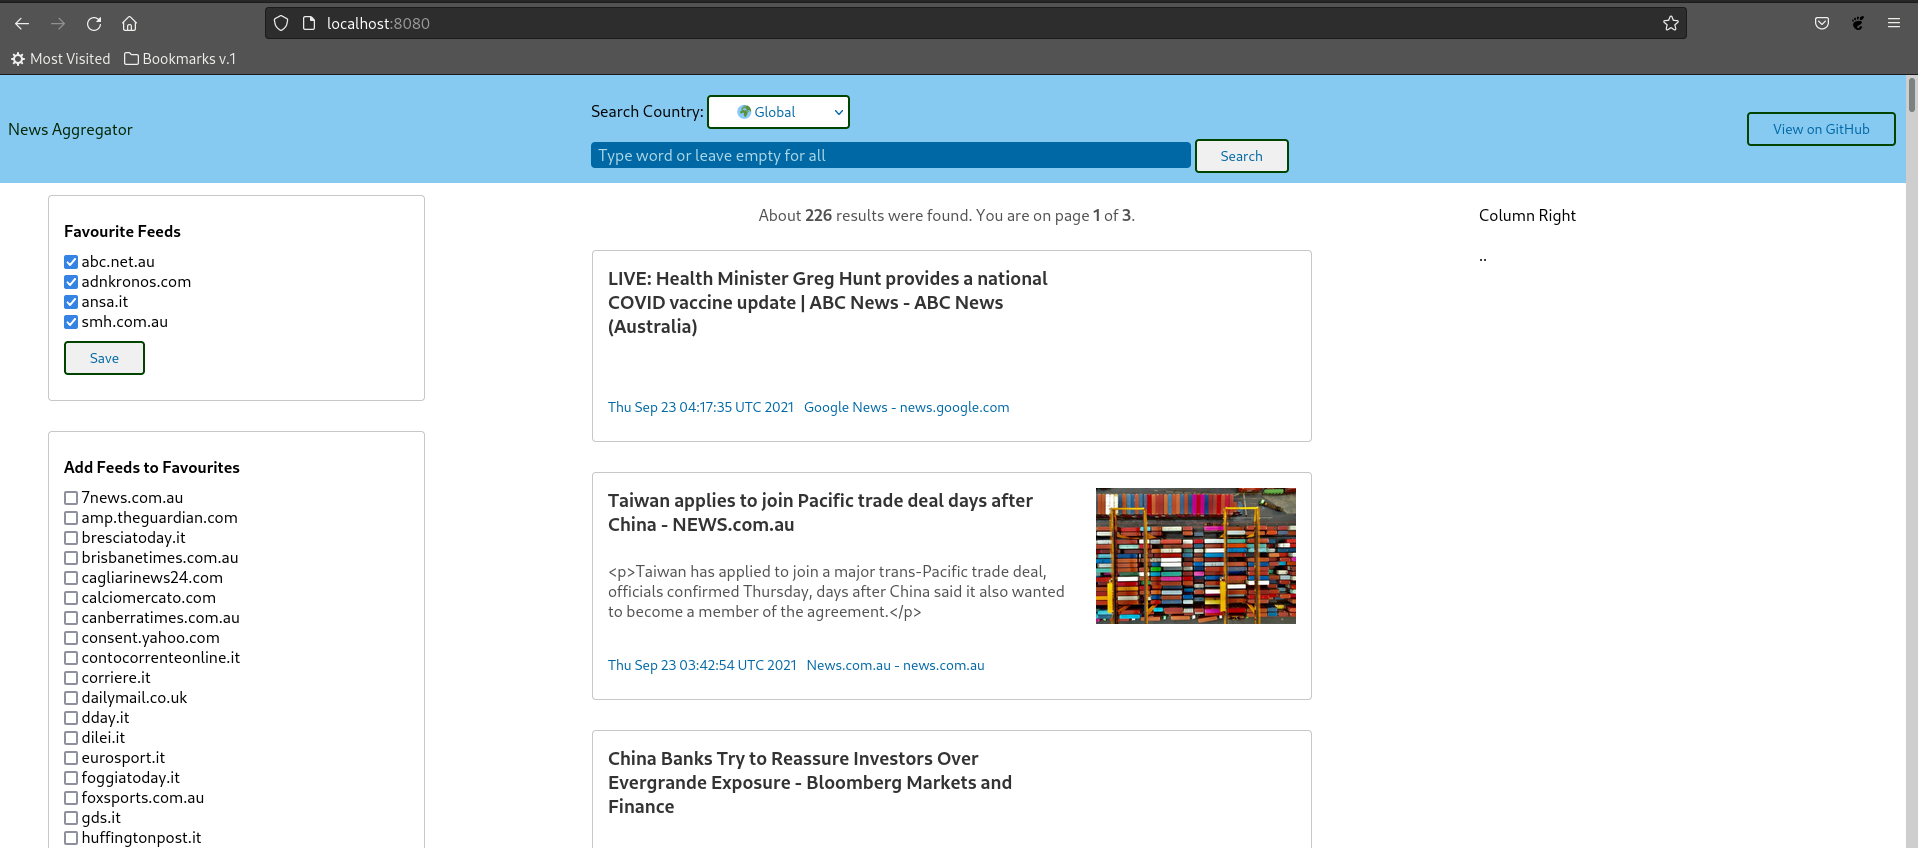
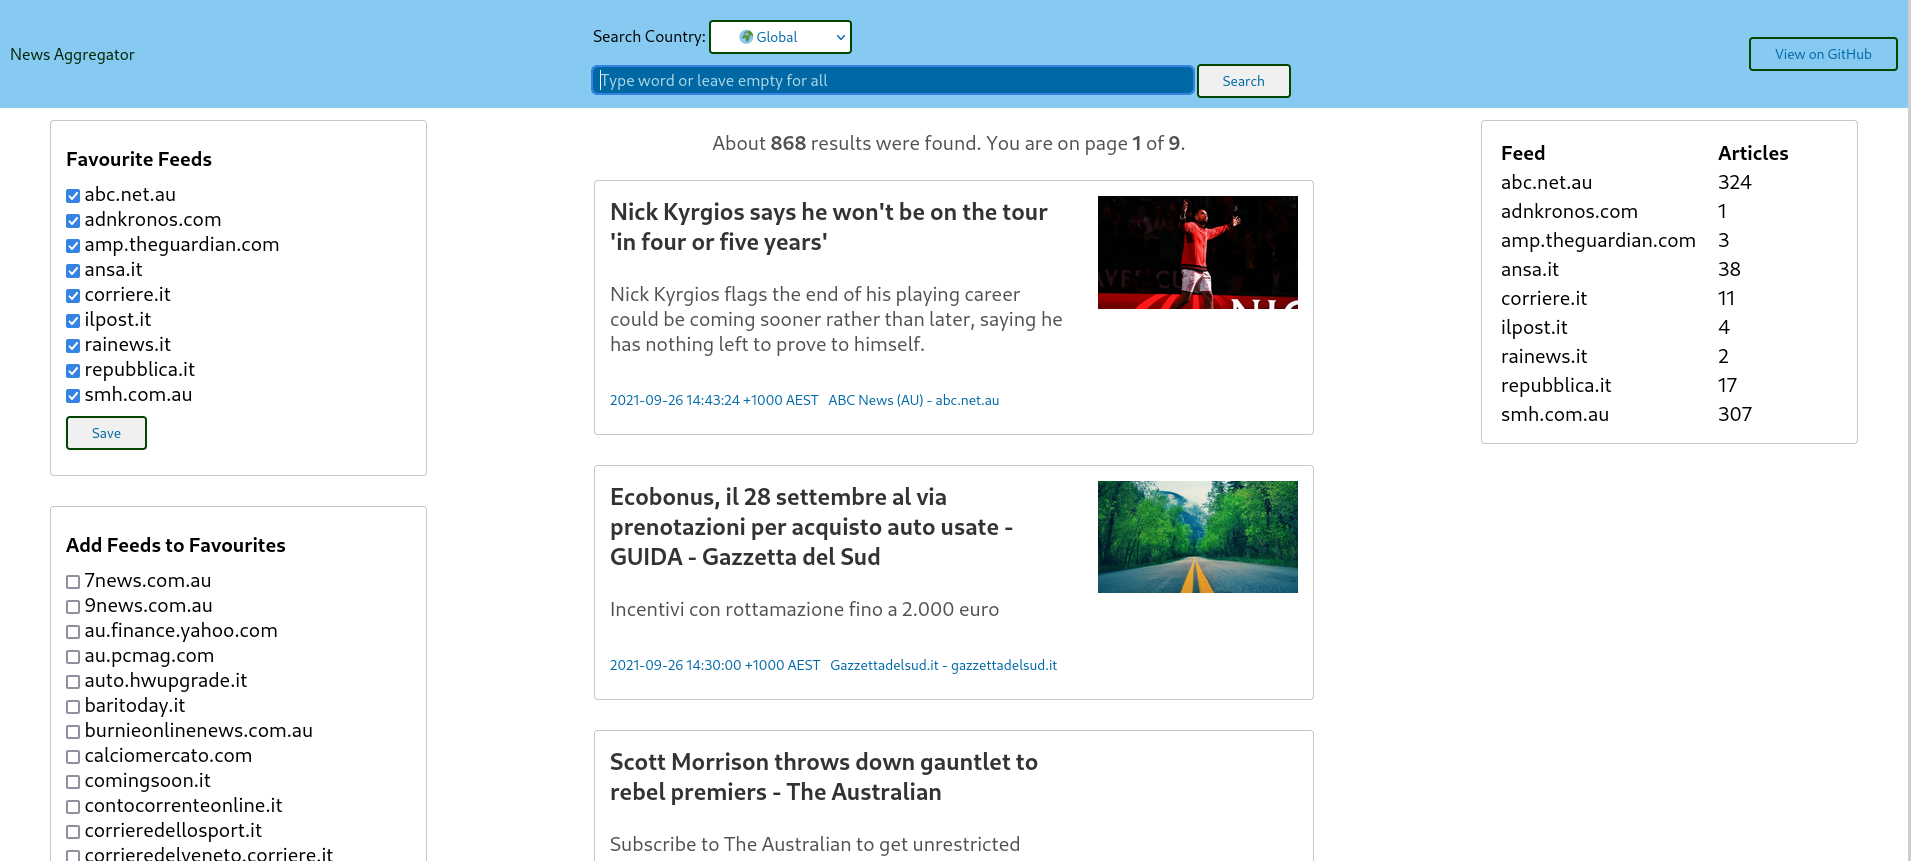
add right section with number of articles per feed

diff --git a/visualizer/index.html b/visualizer/index.html
@@ -121,8 +121,22 @@
         </section>
       </div>
       <div class="column right">
-        <p>Column Right</p>
-        <p> ..</p>
+        <div class="window">
+          {{ if .ArticlesPerFeed }}
+          <table>
+            <tr>
+              <th>Feed</th>
+              <th>Articles</th>
+            </tr>
+            {{ range.ArticlesPerFeed }}
+            <tr>
+              <td>{{ .FeedName }}</td>
+              <td>{{ .ArticlesCount }}</td>
+            </tr>
+            {{ end }}
+          </table>
+          {{ end }}
+        </div>
       </div>
   </div>
   </main>

diff --git a/visualizer/assets/style.css b/visualizer/assets/style.css
@@ -50,13 +50,10 @@ html {
 }
 
 
-/* Clear floats after the columns
-.row:after {
-  content: "";
-  display: table;
-  clear: both;
+td, th {
+  text-align: left;
+  padding: 2px 18px 0px 2px;
 }
- */
 
 *, *::before, *::after {
   box-sizing: inherit;

diff --git a/visualizer/main.go b/visualizer/main.go
@@ -32,12 +32,13 @@ var myDB *data.DBClient
 var tmpl = template.Must(template.ParseFiles("./index.html"))
 
 type Data struct {
-	Query         string
-	NextPage      int
-	TotalPages    int
-	Results       *data.Results
-	Favourites    *data.FavouriteDomains
-	NotFavourites *data.NotFavouriteDomains
+	Query           string
+	NextPage        int
+	TotalPages      int
+	Results         *data.Results
+	Favourites      *data.FavouriteDomains
+	NotFavourites   *data.NotFavouriteDomains
+	ArticlesPerFeed []data.ArticlePerFeed
 }
 
 var pageData Data
@@ -79,7 +80,9 @@ func indexHandler(w http.ResponseWriter, r *http.Request) {
 	var notFavResults *data.NotFavouriteDomains
 	var favCount, notFavCount int
 
-	// ** retrieve Feeds to populate the menu on the left side */
+	var articlesPerFeed []data.ArticlePerFeed
+
+	// ** retrieve Feeds to populate the menu on the left side **
 
 	favCount = myDB.CountFavouriteDomains()
 	favResults = myDB.GetFavouriteDomains()
@@ -89,14 +92,19 @@ func indexHandler(w http.ResponseWriter, r *http.Request) {
 	notFavResults = myDB.GetNotFavouriteDomains()
 	notFavResults.Count = notFavCount
 
+	// ** articlesPerFeed for the menu on the right **
+
+	articlesPerFeed = myDB.CountArticlesGroupByFavourites() // should return a []ArticlePerFeed having .FeedName and .ArticlesCount
+
 	thisData := &pageData
 	*thisData = Data{
-		Query:         pageData.Query,
-		NextPage:      pageData.NextPage,
-		TotalPages:    pageData.TotalPages,
-		Results:       pageData.Results,
-		Favourites:    favResults,
-		NotFavourites: notFavResults,
+		Query:           pageData.Query,
+		NextPage:        pageData.NextPage,
+		TotalPages:      pageData.TotalPages,
+		Results:         pageData.Results,
+		Favourites:      favResults,
+		NotFavourites:   notFavResults,
+		ArticlesPerFeed: articlesPerFeed,
 	}
 
 	// define empty intermediate buffer
@@ -277,12 +285,13 @@ func searchHandler(w http.ResponseWriter, r *http.Request) {
 
 	thisData := &pageData
 	*thisData = Data{
-		Query:         searchQuery,
-		NextPage:      nextPage,
-		TotalPages:    tot,
-		Results:       results,
-		Favourites:    pageData.Favourites,
-		NotFavourites: pageData.NotFavourites,
+		Query:           searchQuery,
+		NextPage:        nextPage,
+		TotalPages:      tot,
+		Results:         results,
+		Favourites:      pageData.Favourites,
+		NotFavourites:   pageData.NotFavourites,
+		ArticlesPerFeed: pageData.ArticlesPerFeed,
 	}
 
 	/*

diff --git a/visualizer/data/data.go b/visualizer/data/data.go
@@ -39,6 +39,13 @@ type NotFavouriteDomains struct {
 	Count   int
 }
 
+type ArticlePerFeed struct {
+	ArticlesCount int
+	FeedName      string
+}
+
+//var ArticlesPerFeed []ArticlesPerFeed
+
 /* Article structs */
 type Article struct {
 	ID          string
@@ -239,6 +246,42 @@ func (db *DBClient) CountArticlesByCountry(country, word string) int {
 	}
 
 	return id
+
+}
+
+func (db *DBClient) CountArticlesGroupByFavourites() []ArticlePerFeed {
+
+	log.Printf("Initiate CountArticlesGroupByFavourites")
+
+	var apfSlice []ArticlePerFeed
+
+	var selectRows *sql.Rows
+	var selectErr error
+	sqlSelect := `SELECT COUNT(a) articlesCount, d.name feed 
+	FROM articles a, domains d 
+	WHERE a.domain_id = d.id AND d.favourite IS TRUE 
+	GROUP BY d.name 
+	ORDER by feed ASC;`
+
+	selectRows, selectErr = db.Database.Query(sqlSelect)
+
+	if selectErr != nil {
+		log.Fatal("Error on SQL SELECT => ", selectErr)
+	}
+
+	for selectRows.Next() {
+
+		var apf ArticlePerFeed
+
+		err := selectRows.Scan(&apf.ArticlesCount, &apf.FeedName)
+		if err != nil {
+			log.Fatal("Error on reading SQL SELECT results => ", err)
+		}
+
+		apfSlice = append(apfSlice, apf)
+	}
+
+	return apfSlice
 
 }
 

diff --git a/README.md b/README.md
@@ -29,9 +29,10 @@ What it does/provides:
 - search of articles with or without a keyword 
 - search of articles per country: Italy, Australia or Global  
 - management of Favourite Feeds from the left side menus (config saved in the DB)
+- view of number of articles ingested per Favourite Feed on the right side
 
 
-A that's how it looks like:  
+That's how it looks like:  
 ![News Aggregator](./images/news-aggregator.png)
 
 # How To Start the Application 
